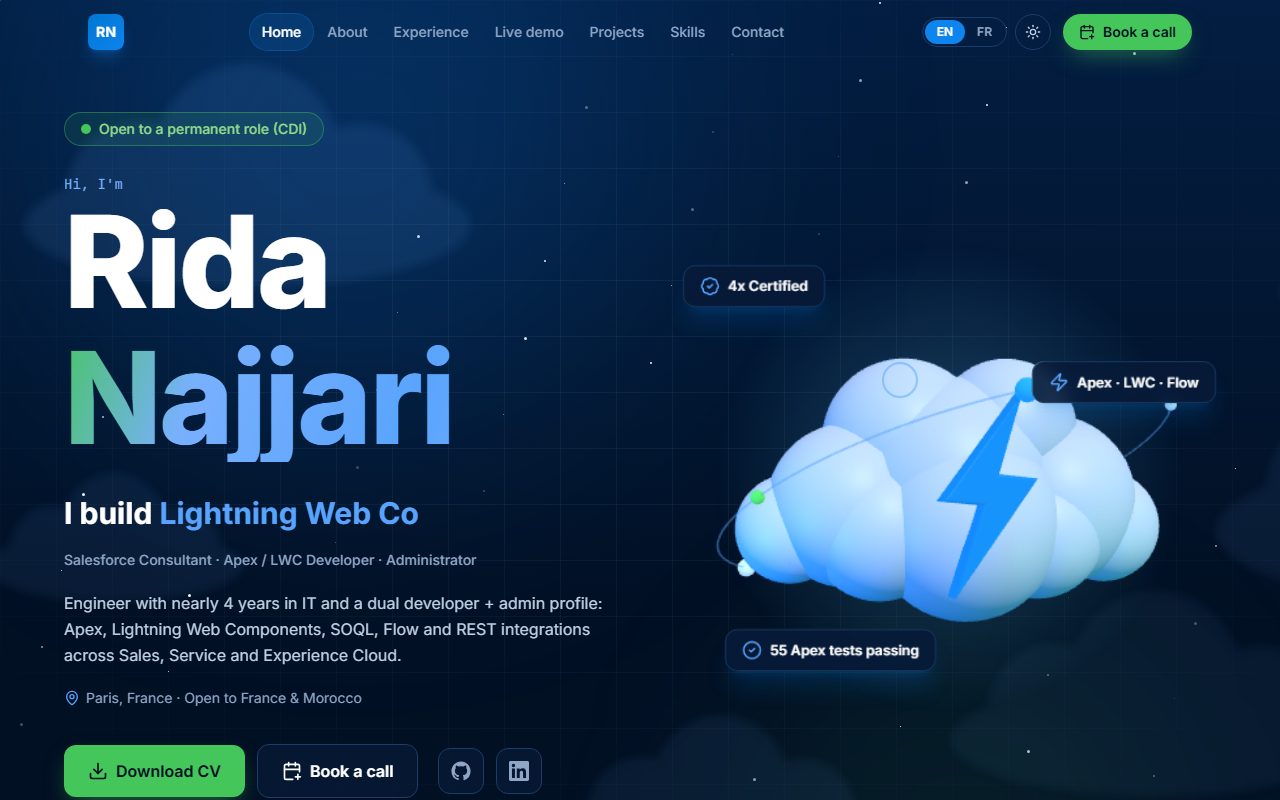
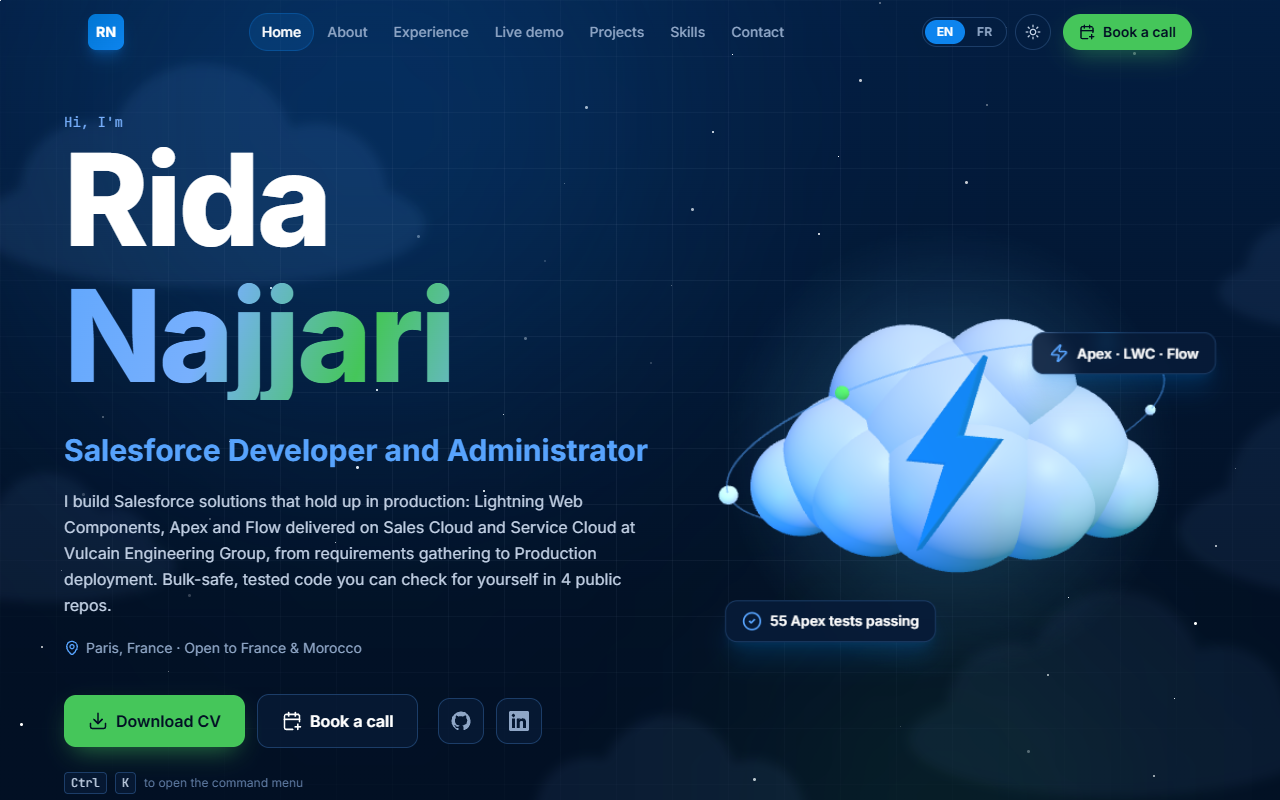
Update README and screenshots for the new hero

diff --git a/README.md b/README.md
@@ -1,6 +1,6 @@
 # portfolio-salesforce
 
-Hi, I'm Rida Najjari. I'm a Salesforce consultant in Paris, currently working on Sales Cloud and Service Cloud at Vulcain Engineering Group. I do both development (Apex, LWC, Flow, integrations) and administration, and I hold 4 Salesforce certifications: Platform Administrator, Platform App Builder, Platform Developer I and Associate.
+Hi, I'm Rida Najjari, a Salesforce developer and administrator in Paris. I build Salesforce solutions that hold up in production: Lightning Web Components, Apex and Flow delivered on Sales Cloud and Service Cloud at Vulcain Engineering Group, from requirements gathering to Production deployment. I hold 4 Salesforce certifications: Platform Administrator, Platform App Builder, Platform Developer I and Associate.
 
 This repo is the code of my personal website. I wanted one place where a recruiter or a tech lead can quickly see my background and open the code of the Salesforce projects I've built, instead of only reading a PDF.
 
@@ -10,18 +10,24 @@ This repo is the code of my personal website. I wanted one place where a recruit
 
 ## What's on the site
 
-- A short intro with a 3D cloud that follows the mouse, and a button to download my CV
+- A short intro that says what I do in one headline and one paragraph, with a 3D cloud that follows the mouse and a button to download my CV
 - A light and a dark theme. The site follows your device setting and remembers your choice if you switch
+
+![Home page in the light theme](docs/screenshot-hero-light.png)
+
 - An About section with a few numbers and how I work
 - My experience (Vulcain Engineering Group, Dell Technologies, Sofrecom), shown as a timeline that scrolls sideways on desktop, and my education (Institut F2i, EMSI)
 - A live demo: two of my Apex projects replayed in the browser on a screen that looks like Salesforce Lightning, with the same rules as the Custom Metadata in the repos and sample data only
+
+![Live demo section](docs/screenshot-demo.png)
+
 - My Salesforce projects, with filters, a short case study for each one and a link to its GitHub repo
 - My 4 certifications and my skills, grouped by area
 - A "Book a call" window to propose a day and a time
 - A contact form that sends the message straight from the page, plus my email and LinkedIn
 - A command menu (Ctrl + K) to jump to any section
 
-The whole site works in English and French. I'm looking for a job in France, but I also wanted it readable for international teams, so there's an EN / FR switch in the menu.
+The whole site works in English and French. I work in France, but I also wanted it readable for international teams, so there's an EN / FR switch in the menu.
 
 ![Projects section](docs/screenshot-projects.png)
 
